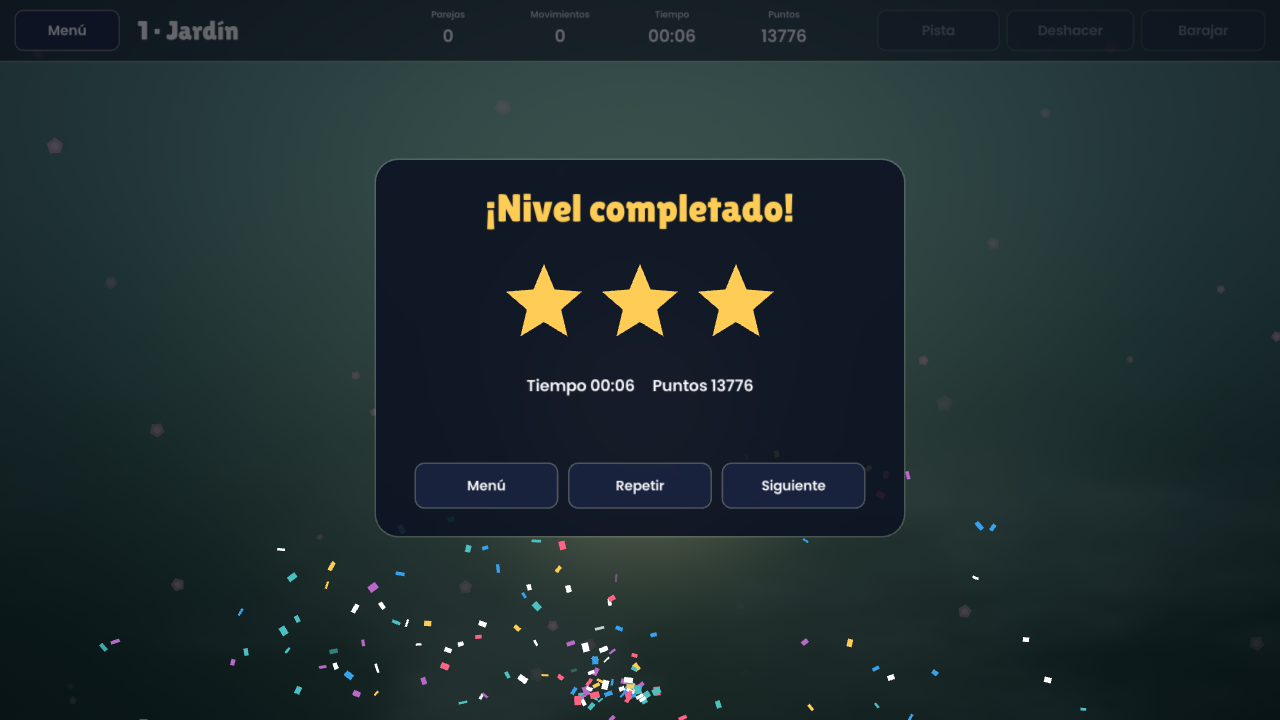
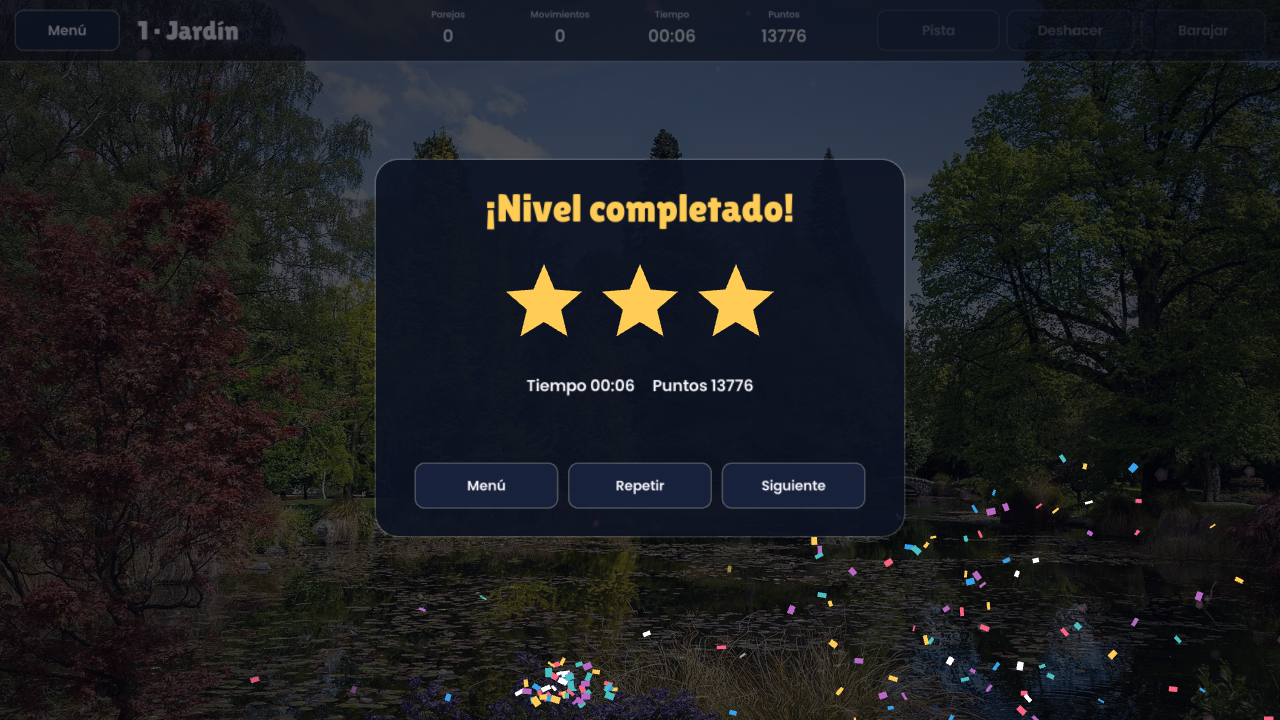
Fondos con fotografías reales animadas
Cada nivel y el menú usan una fotografía de Wikimedia Commons (CC0,
CC BY o dominio público) con movimiento lento de cámara y efectos por
shader: reflejos y destellos en el agua, bruma, viento y aurora. Si
falta la foto se usa el fondo generado. Se acredita a los autores en
THIRD-PARTY-NOTICES.md y se actualizan capturas, README y notas.

diff --git a/src/render/Background.cpp b/src/render/Background.cpp
@@ -15,6 +15,9 @@ uniform vec3 uA;
 uniform vec3 uB;
 uniform vec3 uC;
 uniform int uMode;
+uniform int uPhoto;
+uniform vec2 uTexSize;
+uniform sampler2D texture0;
 
 float hash(vec2 p) { return fract(sin(dot(p, vec2(127.1, 311.7))) * 43758.5453); }
 
@@ -35,10 +38,7 @@ float fbm(vec2 p) {
   return v;
 }
 
-void main() {
-  vec2 uv = gl_FragCoord.xy / uRes;
-  vec2 p = (gl_FragCoord.xy - 0.5 * uRes) / uRes.y;
-  float t = uTime;
+vec3 generated(vec2 uv, vec2 p, float t) {
   vec3 col;
 
   if (uMode == 0) {
@@ -86,6 +86,62 @@ void main() {
       col = mix(col, mix(uB, vec3(1.0), 0.35), smoothstep(0.5, 0.85, mist) * mask * 0.35);
     }
   }
+  return col;
+}
+
+// Fotografía con movimiento lento de cámara y un efecto vivo según el tema.
+vec3 photograph(vec2 uv, vec2 p, float t) {
+  vec2 top = vec2(uv.x, 1.0 - uv.y);  // origen arriba a la izquierda, como la imagen
+  float screen = uRes.x / uRes.y, image = uTexSize.x / uTexSize.y;
+  vec2 fit = screen > image ? vec2(1.0, image / screen) : vec2(screen / image, 1.0);
+  float zoom = 1.09 + 0.05 * sin(t * 0.045);
+  vec2 pan = vec2(sin(t * 0.031), cos(t * 0.023)) * 0.016;
+  vec2 st = (top - 0.5) * fit / zoom + 0.5 + pan;
+
+  float low = smoothstep(0.5, 1.0, top.y);  // mitad inferior: agua, arena, hierba
+  if (uMode == 1) {
+    float wob = noise(vec2(top.x * 6.0, top.y * 30.0 - t * 0.5));
+    st += low * vec2(sin(top.y * 110.0 + t * 1.5 + wob * 6.0) * 0.0022, cos(top.x * 46.0 + t * 1.1) * 0.0012);
+  } else if (uMode == 3) {
+    st.x += (noise(vec2(top.y * 9.0, t * 0.35)) - 0.5) * 0.0045 * low;  // el viento mece el suelo
+  }
+  vec3 col = texture(texture0, st).rgb;
+
+  if (uMode == 0) {
+    // Aurora: el cielo respira con cortinas de luz que se desplazan.
+    float sky = smoothstep(0.8, 0.15, top.y);
+    float veil = fbm(vec2(top.x * 3.0 + t * 0.05, top.y * 1.4 - t * 0.07));
+    float lum = dot(col, vec3(0.3, 0.59, 0.11));
+    col *= 1.0 + sky * (veil - 0.45) * 1.1 * smoothstep(0.08, 0.5, lum);
+  } else if (uMode == 1) {
+    // Destellos sueltos de sol sobre el agua.
+    float grain = noise(vec2(top.x * 150.0 + t * 0.35, top.y * 330.0 - t * 0.9));
+    float glint = pow(grain, 10.0) * (0.5 + 0.5 * sin(t * 2.2 + top.x * 37.0 + top.y * 91.0));
+    col += uC * glint * low * 0.9 * (0.3 + dot(col, vec3(0.33)));
+  } else {
+    // Bruma o nubes bajas que cruzan despacio.
+    float mist = fbm(vec2(p.x * 1.4 + t * 0.028, p.y * 3.2 - t * 0.006));
+    col = mix(col, uC, smoothstep(0.48, 0.9, mist) * 0.24);
+  }
+  if (uMode == 0 || uMode == 2) {
+    vec2 g = gl_FragCoord.xy / (uRes.y / 46.0);
+    vec2 cell = floor(g);
+    float seed = hash(cell);
+    if (seed > 0.9 && top.y < 0.55) {
+      float d = length(fract(g) - (vec2(hash(cell + 3.1), hash(cell + 7.7)) * 0.7 + 0.15));
+      col += vec3(1.0, 0.97, 0.9) * smoothstep(0.07, 0.0, d) * (0.5 + 0.5 * sin(t * (1.0 + seed * 3.0) + seed * 40.0)) * 0.7;
+    }
+  }
+  // Las fichas tienen que leerse bien: algo menos de color y de luz.
+  col = mix(col, vec3(dot(col, vec3(0.3, 0.59, 0.11))), 0.14) * 0.74;
+  return col;
+}
+
+void main() {
+  vec2 uv = gl_FragCoord.xy / uRes;
+  vec2 p = (gl_FragCoord.xy - 0.5 * uRes) / uRes.y;
+  float t = uTime;
+  vec3 col = uPhoto == 1 ? photograph(uv, p, t) : generated(uv, p, t);
 
   float vig = smoothstep(1.25, 0.25, length(p * vec2(0.85, 1.1)));
   col *= mix(0.5, 1.0, vig);
@@ -98,7 +154,11 @@ float frand() { return static_cast<float>(GetRandomValue(0, 10000)) / 10000.0f; 
 
 }  // namespace
 
-void Background::init() {
+void Background::init(const std::string& assetDir) {
+  dir_ = assetDir + "backgrounds/";
+  Image white = GenImageColor(4, 4, WHITE);
+  blank_ = LoadTextureFromImage(white);
+  UnloadImage(white);
   shader_ = LoadShaderFromMemory(nullptr, kFragment);
   locTime_ = GetShaderLocation(shader_, "uTime");
   locRes_ = GetShaderLocation(shader_, "uRes");
@@ -106,6 +166,8 @@ void Background::init() {
   locB_ = GetShaderLocation(shader_, "uB");
   locC_ = GetShaderLocation(shader_, "uC");
   locMode_ = GetShaderLocation(shader_, "uMode");
+  locPhoto_ = GetShaderLocation(shader_, "uPhoto");
+  locTexSize_ = GetShaderLocation(shader_, "uTexSize");
   for (int i = 0; i < 46; ++i)
     motes_.push_back({{frand(), frand()},
                       {0.012f + frand() * 0.03f, 0.01f + frand() * 0.028f},
@@ -114,7 +176,28 @@ void Background::init() {
                       20.0f + frand() * 70.0f});
 }
 
-void Background::shutdown() { UnloadShader(shader_); }
+void Background::shutdown() {
+  for (auto& [name, texture] : photos_)
+    if (texture.id != 0) UnloadTexture(texture);
+  photos_.clear();
+  UnloadTexture(blank_);
+  UnloadShader(shader_);
+}
+
+const Texture2D& Background::photo(const char* name) {
+  const auto found = photos_.find(name);
+  if (found != photos_.end()) return found->second;
+  Texture2D texture = {};
+  const std::string path = dir_ + name + ".jpg";
+  if (FileExists(path.c_str())) {
+    texture = LoadTexture(path.c_str());
+    if (texture.id != 0) {
+      SetTextureFilter(texture, TEXTURE_FILTER_BILINEAR);
+      SetTextureWrap(texture, TEXTURE_WRAP_CLAMP);
+    }
+  }
+  return photos_[name] = texture;  // un id 0 recuerda que no está y no se reintenta
+}
 
 void Background::draw(const Theme& theme, double time, float dt) {
   const float w = static_cast<float>(GetScreenWidth());
@@ -128,8 +211,15 @@ void Background::draw(const Theme& theme, double time, float dt) {
   SetShaderValue(shader_, locB_, &theme.b, SHADER_UNIFORM_VEC3);
   SetShaderValue(shader_, locC_, &theme.c, SHADER_UNIFORM_VEC3);
   SetShaderValue(shader_, locMode_, &theme.mode, SHADER_UNIFORM_INT);
+  const Texture2D& image = photo(theme.photo);
+  const int hasPhoto = image.id != 0 ? 1 : 0;
+  const Texture2D& bound = hasPhoto ? image : blank_;
+  const float texSize[2] = {static_cast<float>(bound.width), static_cast<float>(bound.height)};
+  SetShaderValue(shader_, locPhoto_, &hasPhoto, SHADER_UNIFORM_INT);
+  SetShaderValue(shader_, locTexSize_, texSize, SHADER_UNIFORM_VEC2);
   BeginShaderMode(shader_);
-  DrawRectangle(0, 0, static_cast<int>(w) + 1, static_cast<int>(h) + 1, WHITE);
+  DrawTexturePro(bound, {0.0f, 0.0f, texSize[0], texSize[1]}, {0.0f, 0.0f, w + 1.0f, h + 1.0f}, {0.0f, 0.0f},
+                 0.0f, WHITE);
   EndShaderMode();
 
   // Motas: pétalos, luciérnagas o copos, según el color del tema.

diff --git a/src/game/Themes.cpp b/src/game/Themes.cpp
@@ -12,17 +12,17 @@ constexpr Color kGoldDust = {255, 214, 130, 255};
 constexpr Color kFoam = {190, 240, 255, 255};
 constexpr Color kFirefly = {255, 244, 170, 255};
 
-const Theme kMenu = {{0.05f, 0.07f, 0.16f}, {0.10f, 0.30f, 0.38f}, {0.55f, 0.30f, 0.65f}, 0, 0, kPetal};
+const Theme kMenu = {"menu", {0.05f, 0.07f, 0.16f}, {0.10f, 0.30f, 0.38f}, {0.80f, 0.90f, 1.00f}, 1, 0, kPetal};
 
 const Theme kLevels[] = {
-    /* Jardín    */ {{0.10f, 0.26f, 0.22f}, {0.42f, 0.66f, 0.62f}, {1.00f, 0.85f, 0.55f}, 3, 0, kPetal},
-    /* Pirámide  */ {{0.36f, 0.16f, 0.14f}, {0.86f, 0.52f, 0.30f}, {1.00f, 0.88f, 0.58f}, 3, 3, kGoldDust},
-    /* Puente    */ {{0.02f, 0.16f, 0.28f}, {0.05f, 0.38f, 0.48f}, {0.60f, 0.95f, 1.00f}, 1, 2, kFoam},
-    /* Tortuga   */ {{0.02f, 0.20f, 0.16f}, {0.08f, 0.42f, 0.34f}, {0.75f, 1.00f, 0.80f}, 1, 0, kFoam},
-    /* Fortaleza */ {{0.03f, 0.03f, 0.10f}, {0.12f, 0.08f, 0.28f}, {0.50f, 0.30f, 0.80f}, 2, 1, kFirefly},
-    /* Mariposa  */ {{0.16f, 0.05f, 0.20f}, {0.50f, 0.16f, 0.42f}, {1.00f, 0.62f, 0.45f}, 0, 3, kPetal},
-    /* Cruz      */ {{0.02f, 0.08f, 0.14f}, {0.05f, 0.36f, 0.40f}, {0.40f, 0.95f, 0.70f}, 0, 2, kFoam},
-    /* Templo    */ {{0.08f, 0.02f, 0.04f}, {0.32f, 0.06f, 0.10f}, {0.95f, 0.55f, 0.25f}, 2, 1, kGoldDust},
+    {"jardin", {0.10f, 0.26f, 0.22f}, {0.42f, 0.66f, 0.62f}, {0.90f, 1.00f, 0.85f}, 1, 0, kPetal},
+    {"piramide", {0.36f, 0.16f, 0.14f}, {0.86f, 0.52f, 0.30f}, {1.00f, 0.86f, 0.62f}, 3, 3, kGoldDust},
+    {"puente", {0.02f, 0.16f, 0.28f}, {0.05f, 0.38f, 0.48f}, {1.00f, 0.95f, 0.80f}, 1, 2, kFoam},
+    {"tortuga", {0.02f, 0.20f, 0.16f}, {0.08f, 0.42f, 0.34f}, {0.85f, 1.00f, 1.00f}, 1, 0, kFoam},
+    {"fortaleza", {0.03f, 0.03f, 0.10f}, {0.12f, 0.08f, 0.28f}, {0.92f, 0.95f, 1.00f}, 3, 1, kFirefly},
+    {"mariposa", {0.16f, 0.05f, 0.20f}, {0.50f, 0.16f, 0.42f}, {0.95f, 0.88f, 1.00f}, 3, 3, kPetal},
+    {"cruz", {0.02f, 0.08f, 0.14f}, {0.05f, 0.36f, 0.40f}, {0.40f, 0.95f, 0.70f}, 0, 2, kFoam},
+    {"templo", {0.08f, 0.02f, 0.04f}, {0.32f, 0.06f, 0.10f}, {1.00f, 0.80f, 0.55f}, 1, 1, kGoldDust},
 };
 
 }  // namespace

diff --git a/src/render/Background.hpp b/src/render/Background.hpp
@@ -1,6 +1,8 @@
 // NM Mahjong — © 2026 Richardo G. Cibea M. Todos los derechos reservados.
 #pragma once
 
+#include <map>
+#include <string>
 #include <vector>
 
 #include "raylib.h"
@@ -9,16 +11,19 @@ namespace nm {
 
 // Ambiente de un nivel: colores y estilo del fondo, y carácter de la música.
 struct Theme {
-  Vector3 a, b, c;  // paleta del fondo
-  int mode;         // 0 aurora, 1 agua, 2 noche estrellada, 3 atardecer
-  int mood;         // escala y tempo de la música
-  Color mote;       // color de las motas que flotan
+  const char* photo;  // fotografía de assets/backgrounds, sin extensión
+  Vector3 a, b, c;    // paleta: tinte de la bruma y fondo de reserva
+  int mode;           // animación: 0 aurora, 1 agua, 2 noche estrellada, 3 bruma
+  int mood;           // escala y tempo de la música
+  Color mote;         // color de las motas que flotan
 };
 
-// Fondo animado a pantalla completa (shader) con motas flotando por encima.
+// Fondo animado a pantalla completa: una fotografía con movimiento lento de
+// cámara y efectos por shader (reflejos en el agua, bruma, destellos), con
+// motas flotando por encima. Si falta la foto se usa un fondo generado.
 class Background {
  public:
-  void init();
+  void init(const std::string& assetDir);
   void shutdown();
   void draw(const Theme& theme, double time, float dt);
 
@@ -28,8 +33,14 @@ class Background {
     float size, phase, spin;
   };
 
+  const Texture2D& photo(const char* name);
+
   Shader shader_ = {};
   int locTime_ = -1, locRes_ = -1, locA_ = -1, locB_ = -1, locC_ = -1, locMode_ = -1;
+  int locPhoto_ = -1, locTexSize_ = -1;
+  std::string dir_;
+  std::map<std::string, Texture2D> photos_;  // se cargan la primera vez que hacen falta
+  Texture2D blank_ = {};
   std::vector<Mote> motes_;
 };
 

diff --git a/src/game/Menu.cpp b/src/game/Menu.cpp
@@ -26,7 +26,8 @@ void drawTitle(const Ctx& ctx) {
     ui::text(ctx.title, letter, x, 44.0f + bob, size, i < 2 ? ui::kGold : ui::kText);
     x += ui::textWidth(ctx.title, letter, size);
   }
-  ui::textCentered(ctx.ui, tr(Str::Subtitle), kViewW * 0.5f, 168.0f, 28.0f, ui::kMuted);
+  ui::textCentered(ctx.ui, tr(Str::Subtitle), kViewW * 0.5f + 2.0f, 170.0f, 28.0f, Fade(BLACK, 0.6f));
+  ui::textCentered(ctx.ui, tr(Str::Subtitle), kViewW * 0.5f, 168.0f, 28.0f, ui::kText);
 }
 
 // Miniatura del tablero vista desde arriba.

diff --git a/src/main.cpp b/src/main.cpp
@@ -86,7 +86,7 @@ int main() {
 
   const std::string assets = assetDir();
   Background background;
-  background.init();
+  background.init(assets);
   TileAtlas atlas;
 
   Ctx ctx;

diff --git a/THIRD-PARTY-NOTICES.md b/THIRD-PARTY-NOTICES.md
@@ -6,9 +6,11 @@ componentes de terceros, cada uno bajo su propia licencia.
 NM Mahjong is proprietary software (see `LICENSE`). It uses the third-party
 components below, each under its own license.
 
-Los gráficos de las fichas, los fondos, los efectos de sonido y la música son
-originales y se generan dentro del propio juego. · Tile art, backgrounds, sound
-effects and music are original and generated by the game itself.
+Los gráficos de las fichas, los efectos de sonido y la música son originales y
+se generan dentro del propio juego. Las fotografías de los fondos son de
+terceros y se detallan más abajo. · Tile art, sound effects and music are
+original and generated by the game itself. Background photographs are
+third-party works, credited below.
 
 ---
 
@@ -54,6 +56,33 @@ the following restrictions:
 
 Los textos completos acompañan al código de raylib en
 <https://github.com/raysan5/raylib/tree/5.5/src/external>.
+
+---
+
+## Fotografías de fondo · Background photographs
+
+Obtenidas de Wikimedia Commons. Todas se han **modificado**: recortadas a
+16:9, reducidas a 1920 × 1080 y, dentro del juego, oscurecidas y animadas con
+efectos. · Sourced from Wikimedia Commons. All have been **modified**: cropped
+to 16:9, resized to 1920 × 1080 and, in-game, darkened and animated with
+effects.
+
+| Archivo | Obra original | Autoría | Licencia |
+|---|---|---|---|
+| `menu.jpg` | [Herbert Lake beim Icefields Parkway](https://commons.wikimedia.org/wiki/File:Herbert_Lake_beim_Icefields_Parkway.jpg) | Florian Fuchs | [CC BY 3.0](https://creativecommons.org/licenses/by/3.0) |
+| `jardin.jpg` | [Queenstown Gardens pond from NE end](https://commons.wikimedia.org/wiki/File:Queenstown_Gardens_pond_from_NE_end.jpg) | Bjankuloski06 | [CC BY 4.0](https://creativecommons.org/licenses/by/4.0) |
+| `piramide.jpg` | [Imperial Sand Dunes, Southeastern California](https://commons.wikimedia.org/wiki/File:Imperial_Sand_Dunes2C_Southeastern_California_LCCN2013630449.jpg) | Carol M. Highsmith (Library of Congress) | Dominio público · Public domain |
+| `puente.jpg` | [Pont sur l'Orb, Roquebrun](https://commons.wikimedia.org/wiki/File:Pont_sur_l%27Orb,_Roquebrun.jpg) | Christian Ferrer | [CC BY 4.0](https://creativecommons.org/licenses/by/4.0) |
+| `tortuga.jpg` | [Havelock Island, Mangrove tree on the beach, Andaman Islands](https://commons.wikimedia.org/wiki/File:Havelock_Island,_Mangrove_tree_on_the_beach,_Andaman_Islands.jpg) | © Vyacheslav Argenberg | [CC BY 4.0](https://creativecommons.org/licenses/by/4.0) |
+| `fortaleza.jpg` | [Neuschwanstein Castle 2024-02](https://commons.wikimedia.org/wiki/File:Neuschwanstein_Castle_2024-02.jpg) | Wilfredor | [CC0 1.0](https://creativecommons.org/publicdomain/zero/1.0/) |
+| `mariposa.jpg` | [Île d'Orléans 009](https://commons.wikimedia.org/wiki/File:%C3%8Ele_d%27Orl%C3%A9ans_009.jpg) | Wilfredor | [CC0 1.0](https://creativecommons.org/publicdomain/zero/1.0/) |
+| `cruz.jpg` | [Lofoten, Norway (Unsplash)](https://commons.wikimedia.org/wiki/File:Lofoten,_Norway_(Unsplash).jpg) | Johannes Groll | [CC0 1.0](https://creativecommons.org/publicdomain/zero/1.0/) |
+| `templo.jpg` | [Itsukushima-jinja torii at sunset, Miyajima, Japan](https://commons.wikimedia.org/wiki/File:Itsukushima-jinja_torii_at_sunset,_Miyajima,_Japan,_20240816_1812_4144.jpg) | Jakub Hałun | [CC BY 4.0](https://creativecommons.org/licenses/by/4.0) |
+
+Los archivos están en `assets/backgrounds/`. Las licencias CC BY exigen
+conservar esta atribución; no implican que los autores respalden este juego.
+· Files live in `assets/backgrounds/`. CC BY licenses require keeping this
+attribution; they do not imply the authors endorse this game.
 
 ---
 

diff --git a/docs/releases/v0.1.0.md b/docs/releases/v0.1.0.md
@@ -13,7 +13,8 @@ Primera versión jugable de NM Mahjong. · First playable version of NM Mahjong.
 - Reparto con solución garantizada en todos los tableros.
 - Pista, deshacer y barajar; aviso cuando no quedan movimientos.
 - Combos al encadenar parejas, puntuación y hasta tres estrellas por nivel.
-- Cuatro estilos de fondo animado y música ambiental distinta según el nivel.
+- Un paisaje fotográfico animado por nivel (movimiento lento de cámara, bruma, destellos en el agua, aurora) y música ambiental distinta según el nivel.
+- Actualización automática: el menú avisa cuando hay una versión nueva y la instala con un clic.
 - Efectos de partículas al emparejar y confeti al completar un nivel.
 - Juego en español e inglés; por defecto usa el idioma del sistema.
 - Se guardan el progreso, los mejores tiempos, el volumen y el idioma.
@@ -24,8 +25,10 @@ Primera versión jugable de NM Mahjong. · First playable version of NM Mahjong.
 - Lógica del tablero separada en la biblioteca `nmcore`, sin dependencias gráficas, con pruebas en `tests/board_tests.cpp` (forma de los niveles, solución de 25 repartos por nivel, reglas de emparejado, deshacer y barajar).
 - Reparto por «pelado» del tablero: se asignan parejas a fichas libres y se retiran, de modo que el orden de retirada es una solución válida.
 - Fichas dibujadas por código y horneadas en un atlas de textura al doble de resolución con mipmaps.
-- Fondos en un único shader de fragmentos GLSL 330 con cuatro modos.
-- Música generativa sintetizada en tiempo real (`AudioStream` con callback): colchón, bajo y melodía pentatónica con eco estéreo. Efectos de sonido sintetizados al arrancar. No hay archivos de audio ni de imagen.
+- Fondos: fotografías JPG de 1920 × 1080 (Wikimedia Commons, CC0/CC BY/dominio público, acreditadas en `THIRD-PARTY-NOTICES.md`) animadas en un shader de fragmentos GLSL 330; si falta la foto se usa un fondo generado. Se activa `SUPPORT_FILEFORMAT_JPG` en raylib.
+- Actualizador: consulta `releases/latest` de GitHub con `curl` del sistema, valida etiqueta y direcciones, comprueba el SHA-256 del paquete, lo prepara en disco y un relevo sustituye la instalación y reinicia. Repositorio configurable con `NM_UPDATE_REPO`.
+- Guiones `scripts/setup.sh` y `scripts/setup.ps1` para preparar y compilar en un equipo recién clonado; guía en `docs/COMPILAR.md`.
+- Música generativa sintetizada en tiempo real (`AudioStream` con callback): colchón, bajo y melodía pentatónica con eco estéreo. Efectos de sonido sintetizados al arrancar. No hay archivos de audio.
 - Lienzo virtual de 1600 × 900 escalado a la ventana; ventana redimensionable y pantalla completa sin bordes (F11).
 - Partida guardada en `~/Library/Application Support/NMMahjong` (macOS) y `%APPDATA%\NMMahjong` (Windows).
 
@@ -39,4 +42,5 @@ Primera versión jugable de NM Mahjong. · First playable version of NM Mahjong.
 
 ## Problemas conocidos
 
-- La versión de Windows se ha compilado pero todavía no se ha probado en un equipo con Windows.
+- La versión de Windows se ha compilado pero todavía no se ha probado en un equipo con Windows; tampoco su actualización automática ni `scripts/setup.ps1`.
+- La actualización automática necesita que las versiones publicadas sean accesibles sin iniciar sesión (repositorio público).

diff --git a/README.md b/README.md
@@ -14,8 +14,8 @@ avanza por ocho niveles con su propio paisaje y su propia música.
   anterior.
 - **Siempre tiene solución.** Las fichas se reparten de forma que el tablero
   pueda despejarse entero.
-- **Fondos animados** distintos en cada nivel: auroras, agua, cielos
-  estrellados y atardeceres.
+- **Paisajes reales animados**: cada nivel tiene su fotografía —lagos, dunas,
+  playas, auroras, templos— con movimiento lento, bruma y destellos en el agua.
 - **Música ambiental** que nunca se repite igual y cambia de carácter según el
   nivel.
 - **Efectos**: destellos al emparejar, combos si encadenas parejas con
@@ -65,8 +65,8 @@ Creado por **Richardo G. Cibea M.** © 2026. Todos los derechos reservados.
 
 NM Mahjong es software propietario: puedes descargarlo y jugar, pero no
 copiarlo, modificarlo ni redistribuirlo. Las condiciones completas están en
-[LICENSE](LICENSE) y los componentes de terceros que utiliza, en
-[THIRD-PARTY-NOTICES.md](THIRD-PARTY-NOTICES.md).
+[LICENSE](LICENSE) y los componentes de terceros que utiliza —incluidos los autores de las
+fotografías de fondo—, en [THIRD-PARTY-NOTICES.md](THIRD-PARTY-NOTICES.md).
 
 ---
 
@@ -82,8 +82,8 @@ way through eight levels, each with its own scenery and music.
 - **Eight levels** with different shapes, from the small *Garden* to the 144
   tiles of *Turtle* and *Temple*. Clearing a level unlocks the next one.
 - **Always solvable.** Tiles are dealt so the whole board can be cleared.
-- **Animated backgrounds** for every level: auroras, water, starry skies and
-  sunsets.
+- **Real, animated scenery**: every level has its own photograph (lakes,
+  dunes, beaches, auroras, temples) with slow motion, mist and water sparkles.
 - **Ambient music** that never plays the same way twice and changes mood with
   the level.
 - **Effects**: sparkles on every match, combos when you chain pairs quickly
@@ -125,5 +125,5 @@ Created by **Richardo G. Cibea M.** © 2026. All rights reserved.
 
 NM Mahjong is proprietary software: you may download and play it, but not copy,
 modify or redistribute it. Full terms are in [LICENSE](LICENSE); the
-third-party components it uses are listed in
-[THIRD-PARTY-NOTICES.md](THIRD-PARTY-NOTICES.md).
+third-party components it uses, including the background photographers, are
+credited in [THIRD-PARTY-NOTICES.md](THIRD-PARTY-NOTICES.md).
